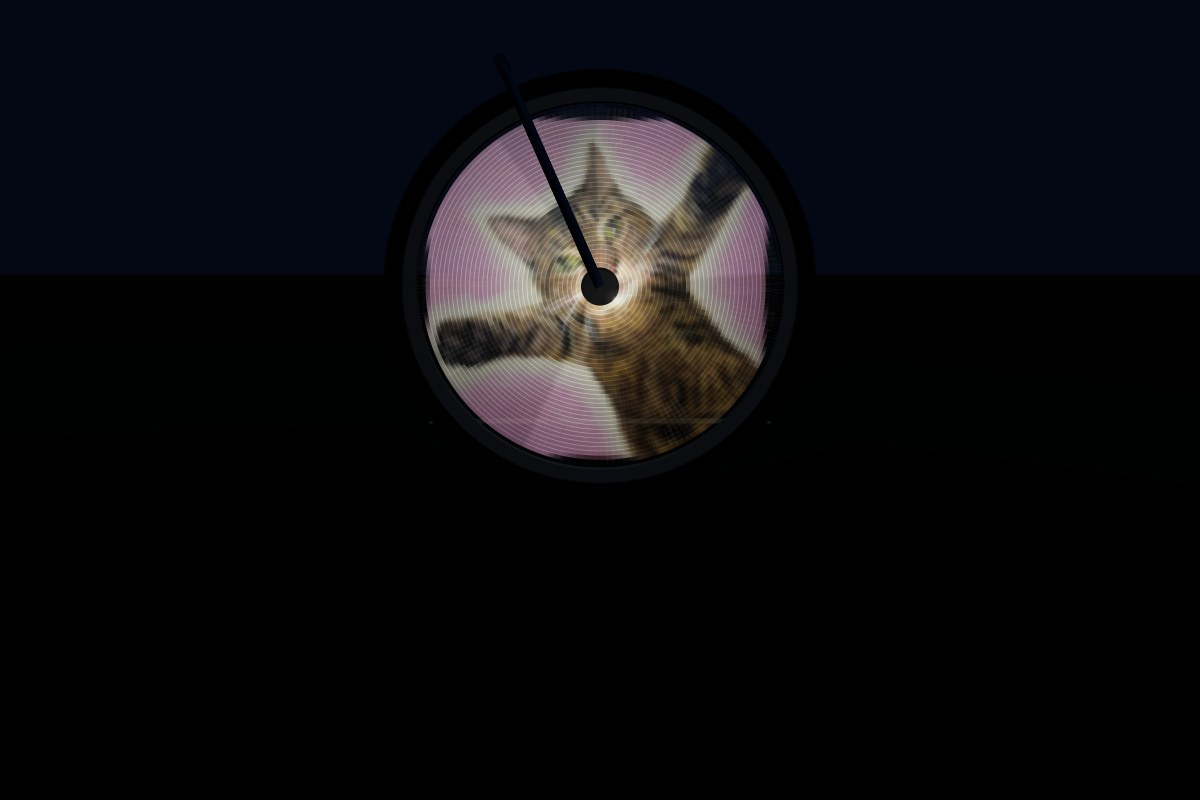
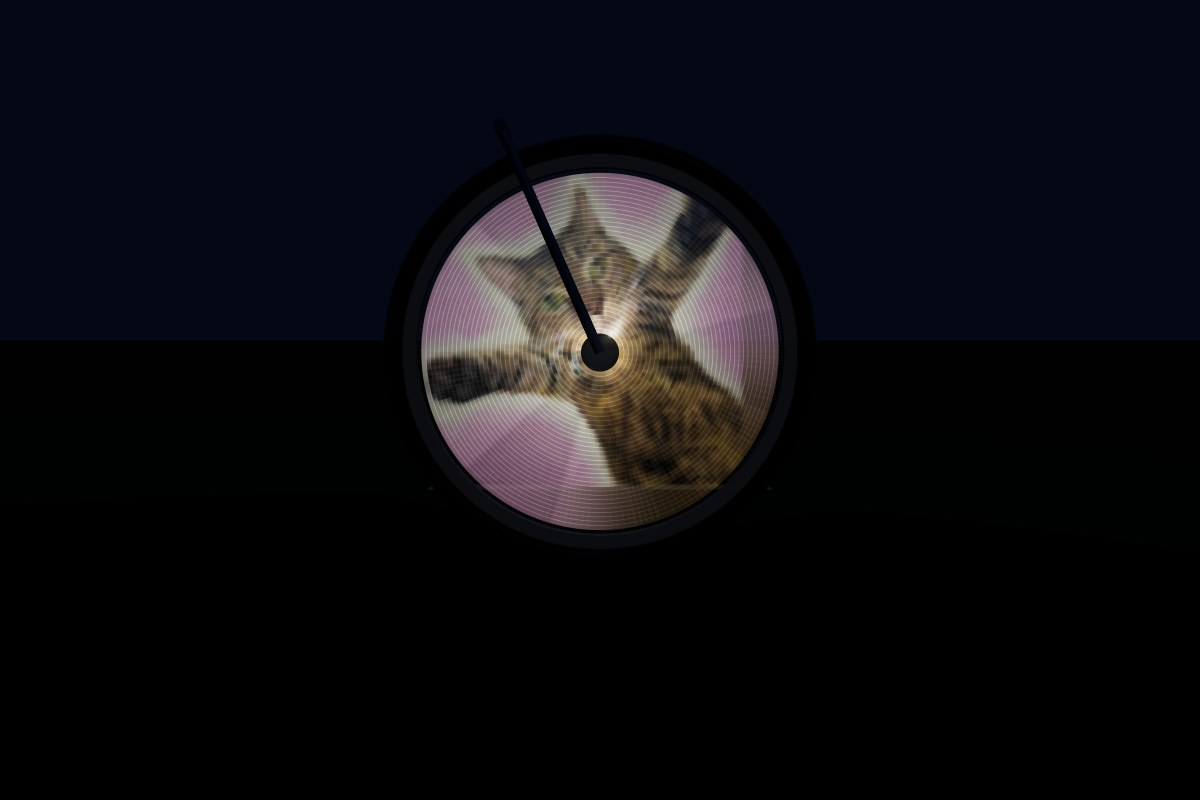
Pictures: zoom, move and blurred mirror edges; reframe Soup
- Picture details gain Zoom, Move right and Move up, and Edges: where a
  picture doesn't reach, a heavily blurred mirror tiling of it (default)
  or dark. The blur is done in script, so it works in Safari too.
- Soup is zoomed out with the hub on her chest, face and both paws in
  view; the painting is cropped to just the canvas.
- README: settings and the Soup example.

Changed region(s): [[0.3392, 0.125, 0.6475, 0.6875]]

diff --git a/src/image/load.ts b/src/image/load.ts
@@ -481,15 +481,65 @@ export function blankAnimation(): Animation {
   return { frames: [c], fps: 1 };
 }
 
-/** Square, centred copy for polar mapping: cropped to fill the square, or letterboxed whole. */
-export function squareImageData(src: ImageSource, crop = false): ImageData {
+/**
+ * Square copy for polar mapping: cropped to fill the square, or letterboxed whole, then scaled
+ * by zoom about the centre and moved right by x and up by y (shares of the square's size).
+ * Where the picture doesn't reach, edges fills in: dark, or a heavily blurred mirror tiling of
+ * the picture (flipped copies all around, so its edges continue softly into the rest of the wheel).
+ */
+export function squareImageData(src: ImageSource, crop = false, zoom = 1, x = 0, y = 0,
+  edges: 'dark' | 'mirror' = 'dark'): ImageData {
   const { g } = canvas();
   g.fillStyle = '#000';
   g.fillRect(0, 0, SIZE, SIZE);
-  const s = (crop ? Math.max : Math.min)(SIZE / src.width, SIZE / src.height);
+  const s = (crop ? Math.max : Math.min)(SIZE / src.width, SIZE / src.height) * zoom;
   const w = src.width * s, h = src.height * s;
-  g.drawImage(src, (SIZE - w) / 2, (SIZE - h) / 2, w, h);
+  const left = (SIZE - w) / 2 + x * SIZE, top = (SIZE - h) / 2 - y * SIZE;
+  if (edges === 'mirror') {
+    // Tile at a small size, blur that heavily, then enlarge it smoothly. The blur is done here
+    // rather than with the canvas blur filter, which Safari lacks.
+    const k = 1 / 8, tiny = canvas(SIZE * k, SIZE * k), mid = canvas(SIZE / 2, SIZE / 2);
+    for (let i = Math.floor(-left / w); left + i * w < SIZE; i++) {
+      for (let j = Math.floor(-top / h); top + j * h < SIZE; j++) {
+        const fx = i % 2 !== 0, fy = j % 2 !== 0; // flipped in turn, so each edge meets its own mirror image
+        tiny.g.save();
+        tiny.g.translate((left + i * w + (fx ? w : 0)) * k, (top + j * h + (fy ? h : 0)) * k);
+        tiny.g.scale(fx ? -1 : 1, fy ? -1 : 1);
+        tiny.g.drawImage(src, 0, 0, w * k, h * k);
+        tiny.g.restore();
+      }
+    }
+    const px = tiny.g.getImageData(0, 0, tiny.c.width, tiny.c.height);
+    blur(px, Math.round(tiny.c.width / 10));
+    tiny.g.putImageData(px, 0, 0);
+    for (const t of [mid.g, g]) { t.imageSmoothingEnabled = true; t.imageSmoothingQuality = 'high'; }
+    mid.g.drawImage(tiny.c, 0, 0, SIZE / 2, SIZE / 2);
+    g.drawImage(mid.c, 0, 0, SIZE, SIZE);
+  }
+  g.drawImage(src, left, top, w, h);
   return g.getImageData(0, 0, SIZE, SIZE);
+}
+
+/** Blur pixels in place: three passes of a box blur `radius` wide each way (close to a Gaussian). */
+function blur(img: ImageData, radius: number) {
+  const { data, width, height } = img, line = new Float32Array(Math.max(width, height) * 4);
+  const pass = (n: number, count: number, at: (line: number, i: number) => number) => {
+    for (let l = 0; l < count; l++) {
+      for (let i = 0; i < n; i++) for (let ch = 0; ch < 4; ch++) line[i * 4 + ch] = data[at(l, i) + ch];
+      for (let i = 0; i < n; i++) {
+        const lo = Math.max(0, i - radius), hi = Math.min(n - 1, i + radius);
+        for (let ch = 0; ch < 4; ch++) {
+          let sum = 0;
+          for (let j = lo; j <= hi; j++) sum += line[j * 4 + ch];
+          data[at(l, i) + ch] = sum / (hi - lo + 1);
+        }
+      }
+    }
+  };
+  for (let p = 0; p < 3; p++) {
+    pass(width, height, (y, x) => (y * width + x) * 4);
+    pass(height, width, (x, y) => (y * width + x) * 4);
+  }
 }
 
 /** Native-resolution copy (capped) for the Adafruit columns-as-angles mapping. */

diff --git a/src/params.ts b/src/params.ts
@@ -207,6 +207,10 @@ export function defaultParams() {
     mapping: 'polar' as 'polar' | 'columns',
     fit: 'disc' as 'disc' | 'annulus',
     pictureFill: 'crop' as 'crop' | 'whole', // a non-square picture: crop it to fill the wheel, or letterbox the whole of it
+    pictureZoom: 1,           // scales a picture about the wheel's centre (1 = as filled)
+    pictureX: 0,              // moves it right, as a share of the wheel's width (negative = left)
+    pictureY: 0,              // moves it up, as a share of the wheel's height (negative = down)
+    pictureEdges: 'mirror' as 'dark' | 'mirror', // where a picture doesn't reach: dark, or a blurred mirror tiling of it
     imageRotationDeg: 0,
     gamma: 2.2,
     colorBits: 8,
@@ -245,7 +249,7 @@ export type Params = ReturnType<typeof defaultParams>;
 // simulation: riding, camera, exposure and rendering.
 export const PRESET_KEYS = [
   'pattern', 'useMedia', 'text', 'displayMode', 'tileGapM', 'bannerLower', 'bannerUpper', 'spinSeconds', 'mapping', 'fit', 'pictureFill',
-  'imageRotationDeg', 'globalBrightness',
+  'pictureZoom', 'pictureX', 'pictureY', 'pictureEdges', 'imageRotationDeg', 'globalBrightness',
   'waterFill', 'fluid', 'waterFlip', 'waterViscosity', 'waterSeparation', 'rimFriction', 'waterGain',
   'smileyBounce', 'smileyGrip', 'smileyGain',
   'dryerRibbons', 'dryerDrumTurn', 'dryerGrip', 'dryerGain', 'dryerShuffle',
@@ -277,7 +281,7 @@ export const PATTERN_LABELS: Record<PatternName, string> = {
 // Allowed values for the string settings that pick from a list.
 const CHOICES: Partial<Record<keyof Params, readonly string[]>> = {
   pattern: PATTERNS, bannerLower: BANNER_LOWER, bannerUpper: ['road', 'bike'], fluid: Object.keys(FLUIDS), displayMode: ['wheel', 'banner'], mapping: ['polar', 'columns'],
-  fit: ['disc', 'annulus'], pictureFill: ['crop', 'whole'], frameAdvance: ['timed', 'revolution'], wheelPreset: Object.keys(WHEELS),
+  fit: ['disc', 'annulus'], pictureFill: ['crop', 'whole'], pictureEdges: ['dark', 'mirror'], frameAdvance: ['timed', 'revolution'], wheelPreset: Object.keys(WHEELS),
   ledPackage: Object.keys(PACKAGES), backData: ['same', 'independent'], chip: Object.keys(CHIPS),
   ledType: Object.keys(LEDS), firmware: Object.keys(FIRMWARE), syncMode: ['hall', 'ideal', 'free'],
   overflow: ['wrap', 'blank'],
@@ -321,7 +325,8 @@ export function speedMps(p: Params): number {
  * to a picture starts them afresh, so a picture always begins the same way, whatever the preset
  * showed before: cropped to fill the wheel and turning with it.
  */
-export const PICTURE_KEYS = ['displayMode', 'tileGapM', 'bannerUpper', 'spinSeconds', 'mapping', 'fit', 'pictureFill', 'imageRotationDeg',
+export const PICTURE_KEYS = ['displayMode', 'tileGapM', 'bannerUpper', 'spinSeconds', 'mapping', 'fit', 'pictureFill',
+  'pictureZoom', 'pictureX', 'pictureY', 'pictureEdges', 'imageRotationDeg',
   'frameAdvance', 'playbackRate', 'revsPerFrame'] as const satisfies readonly PresetKey[];
 
 /** Show the preset's image or video instead of its pattern, with the picture settings at their defaults. */

diff --git a/src/main.ts b/src/main.ts
@@ -103,7 +103,7 @@ let imageKey = '';
 let rebuildTimer = 0;
 
 function imageKeyFor(d: Derived) {
-  return [sourceVersion, bannerLowerOf(p) === 'picture', p.mapping, p.fit, p.pictureFill, p.imageRotationDeg, p.gamma, p.colorBits, p.radialCompensation,
+  return [sourceVersion, bannerLowerOf(p) === 'picture', p.mapping, p.fit, p.pictureFill, p.pictureZoom, p.pictureX, p.pictureY, p.pictureEdges, p.useMedia, p.imageRotationDeg, p.gamma, p.colorBits, p.radialCompensation,
     p.columnsPerRev, p.stripCount, d.ledsPerStrip, d.rStart, d.pitch, p.doubleSided, p.backData, p.radialStagger].join('|');
 }
 
@@ -120,7 +120,11 @@ async function rebuildImage(d: Derived) {
   let budgetEnd = performance.now() + 30;
   for (const [i, frame] of source.frames.entries()) {
     const wheelFrame = source.wheelFrames?.[i] ?? frame;
-    const c = polarize(p.mapping === 'polar' ? squareImageData(wheelFrame, p.pictureFill === 'crop') : rawImageData(frame), p, d);
+    // Zoom and move apply to your own pictures; patterns are drawn to fit the wheel already.
+    const square = () => (p.useMedia
+      ? squareImageData(wheelFrame, p.pictureFill === 'crop', p.pictureZoom, p.pictureX, p.pictureY, p.pictureEdges)
+      : squareImageData(wheelFrame, p.pictureFill === 'crop'));
+    const c = polarize(p.mapping === 'polar' ? square() : rawImageData(frame), p, d);
     cols.push(c);
     const bannerFrame = bannerLowerOf(p) === 'picture' ? frame : source.bannerFrames?.[i] ?? bannerTile(frame);
     bans.push(bannerBitmap(rawImageData(bannerFrame), p, d));

diff --git a/src/ui.ts b/src/ui.ts
@@ -173,6 +173,10 @@ export function buildUi(p: Params, hooks: UiHooks): Ui {
   const picture = pg.addFolder('Picture details').close();
   picture.add(p, 'mapping', { 'Picture (polar)': 'polar', 'Adafruit columns': 'columns' }).name('Layout');
   const fillCtl = picture.add(p, 'pictureFill', { 'Crop to fill': 'crop', 'Whole picture': 'whole' }).name('Fill');
+  const zoomCtl = picture.add(p, 'pictureZoom', 0.25, 4, 0.05).name('Zoom');
+  const moveXCtl = picture.add(p, 'pictureX', -1, 1, 0.01).name('Move right');
+  const moveYCtl = picture.add(p, 'pictureY', -1, 1, 0.01).name('Move up');
+  const edgesCtl = picture.add(p, 'pictureEdges', { 'Blurred mirror': 'mirror', 'Dark': 'dark' }).name('Edges');
   picture.add(p, 'fit', { 'Whole disc': 'disc', 'LED ring only': 'annulus' }).name('Fit');
   picture.add(p, 'imageRotationDeg', -180, 180, 1).name('Rotation (°)');
 
@@ -321,7 +325,7 @@ export function buildUi(p: Params, hooks: UiHooks): Ui {
     spinCtl.show(p.displayMode === 'wheel' && !live);
     gapCtl.show(p.displayMode === 'banner' && p.bannerUpper === 'road');
     lowerCtl.show(p.displayMode === 'banner' && !p.useMedia); // a picture always fills the banner's full height
-    fillCtl.show(p.useMedia && p.mapping === 'polar');
+    for (const c of [fillCtl, zoomCtl, moveXCtl, moveYCtl, edgesCtl]) c.show(p.useMedia && p.mapping === 'polar');
     water.show(isWater);
     smiley.show(isSmiley);
     dryer.show(isDryer);

diff --git a/test/presets.test.ts b/test/presets.test.ts
@@ -100,10 +100,12 @@ describe('preset store', () => {
 describe('pictures', () => {
   it('start the same way whatever the preset showed before: cropped to fill the wheel, turning with it', () => {
     const p = { ...defaultParams(), pattern: 'Bouncing ball (animated)' as const, displayMode: 'banner' as const,
-      bannerUpper: 'bike' as const, bannerLower: 'bridge' as const, spinSeconds: 16, fit: 'annulus' as const, pictureFill: 'whole' as const };
+      bannerUpper: 'bike' as const, bannerLower: 'bridge' as const, spinSeconds: 16, fit: 'annulus' as const, pictureFill: 'whole' as const,
+      pictureZoom: 2, pictureX: 0.3, pictureY: -0.2, pictureEdges: 'dark' as const };
     showPicture(p);
     expect(p.useMedia).toBe(true);
-    expect(p).toMatchObject({ displayMode: 'wheel', bannerUpper: 'road', spinSeconds: 0, fit: 'disc', pictureFill: 'crop', mapping: 'polar' });
+    expect(p).toMatchObject({ displayMode: 'wheel', bannerUpper: 'road', spinSeconds: 0, fit: 'disc', pictureFill: 'crop', mapping: 'polar',
+      pictureZoom: 1, pictureX: 0, pictureY: 0, pictureEdges: 'mirror' });
     // Already showing a picture: its settings stay as the rider set them.
     p.displayMode = 'banner'; p.spinSeconds = 8;
     showPicture(p);

diff --git a/README.md b/README.md
@@ -29,7 +29,7 @@ These are all renders from the simulator, starting from the Water preset and the
   </tr>
   <tr>
     <td width="50%"><img src="docs/images/dryer-ride.jpg" alt="Colourful ribbons tumbling up the rear side of the wheel"><br><sub><b>Tumble dryer preset,</b> 12 mph, 1/4 s: the paddles carry the ribbons up the rear side of the drum until they fall back, the nearer ribbons covering the ones behind.</sub></td>
-    <td width="50%"><img src="docs/images/soup-preset.jpg" alt="A painting of a cat cropped to fill the wheel"><br><sub><b>Soup preset,</b> 15 mph, 1/2 s: your own picture (here a painting of a cat, from <code>media/</code>), cropped to fill the wheel and shown as it is.</sub></td>
+    <td width="50%"><img src="docs/images/soup-preset.jpg" alt="A painting of a cat cropped to fill the wheel"><br><sub><b>Soup preset,</b> 15 mph, 1/2 s: your own picture (here a painting of a cat, from <code>media/</code>), zoomed out and moved so the hub sits on her chest, with her face and both paws in view; a heavily blurred mirror of the painting fills the rest of the wheel.</sub></td>
   </tr>
   <tr>
     <td width="50%"><img src="docs/images/shutter-1-30.jpg" alt="Three wedges at a 1/30 s shutter"><br><sub><b>1/30 s photo</b> at 10 mph: each of the 3 strips sweeps only 25°.</sub></td>
@@ -69,7 +69,7 @@ Two views show the same moment and the same animation. The main view follows the
 
 A real wheel has one button that steps through its presets in order while you ride; **Next ▶** does the same here. The default setup has nine: Soup (your own picture: a painting of a cat, until you choose another), Tumble dryer (colourful ribbons tumbling in a drum), Rainbow spiral (which turns slowly), Water, Smiley (a smiley loose inside the wheel that bounces around as you ride), Beating heart, Clock face (an old Roman-numeral dial whose hands spin in opposite directions), Text banner ("Hi!" painted in the air) and Ball on a bridge. A new setup always starts on the first preset. Edit any of them, add a copy with **＋ New preset**, reorder them with ↑ / ↓, or delete them. **Reset** (at the top of Settings) brings back the originals, along with the default hardware and simulator settings. Delete, Reset and Reset hardware ask for a second click to confirm.
 
-To show your own picture, set **Show** to *Image / video* and pick a file with the button under it (an image, animated GIF/WebP/APNG, or video); dropping or pasting a file does the same. The file is stored in the selected preset. A picture is always shown as it is, whatever the preset showed before: it starts cropped to fill the wheel and turning with it, and you can then letterbox the whole picture instead (*Fill*, under *Picture details*), spin it, or make it a banner. As a banner it fills the full height, with no lower-half pattern.
+To show your own picture, set **Show** to *Image / video* and pick a file with the button under it (an image, animated GIF/WebP/APNG, or video); dropping or pasting a file does the same. The file is stored in the selected preset. A picture is always shown as it is, whatever the preset showed before: it starts cropped to fill the wheel and turning with it, and you can then letterbox the whole picture instead (*Fill*, under *Picture details*), zoom and move it (so a face stays clear of the hub; where it no longer reaches, a blurred mirror of it fills in), spin it, or make it a banner. As a banner it fills the full height, with no lower-half pattern.
 
 ### Setups
 
@@ -183,7 +183,7 @@ Position comes from hall-sensor dead reckoning: whole turns at each magnet pass,
 
 | Where | Highlights |
 |---|---|
-| Presets | Show: test patterns (some animated) or your own image, animated GIF/WebP/APNG, or video. Text, wheel-locked or banner mode, spin (the firmware turns a wheel-locked picture once every so many seconds, fractions allowed, by shifting the columns it sends, so it needs no extra frames), banner gap, whether a banner picture is pinned to the road or rides with the bike, the banner's lower-half pattern (arches, rainbow arches, scallops, beads, truss bridge or a full-height picture; your own pictures always fill the full height), brightness. *Water:* fluid type (water, splashy, thick), fill, rim drag, slosh, and under Details the FLIP ratio, viscosity and particle spacing. *Bouncing smiley:* bounce, wall grip, push. *Tumble dryer:* ribbons, drum turn, drum grip, push, layer shuffle. *Animation:* playback speed, timed or every-N-turns frame advance. *Picture details:* polar (picture) or Adafruit columns-as-angles layout, fill (crop to fill the wheel, or the whole picture letterboxed), fit, rotation. Presets hold only the look; hardware and simulator settings don't change when you switch presets |
+| Presets | Show: test patterns (some animated) or your own image, animated GIF/WebP/APNG, or video. Text, wheel-locked or banner mode, spin (the firmware turns a wheel-locked picture once every so many seconds, fractions allowed, by shifting the columns it sends, so it needs no extra frames), banner gap, whether a banner picture is pinned to the road or rides with the bike, the banner's lower-half pattern (arches, rainbow arches, scallops, beads, truss bridge or a full-height picture; your own pictures always fill the full height), brightness. *Water:* fluid type (water, splashy, thick), fill, rim drag, slosh, and under Details the FLIP ratio, viscosity and particle spacing. *Bouncing smiley:* bounce, wall grip, push. *Tumble dryer:* ribbons, drum turn, drum grip, push, layer shuffle. *Animation:* playback speed, timed or every-N-turns frame advance. *Picture details:* polar (picture) or Adafruit columns-as-angles layout, fill (crop to fill the wheel, or the whole picture letterboxed), zoom and move (to keep a face out of the dark hub), edges (where the picture doesn't reach: a heavily blurred mirror of it, or dark), fit, rotation. Presets hold only the look; hardware and simulator settings don't change when you switch presets |
 | Hardware | Setup name. *Wheel:* size presets (700c default, 29", 27.5", 26", 24", 20", 16", 12"), with rim, tire, depth and spokes under Details. *LEDs:* type (APA102, SK9822, HD107S, WS2812B, SK6812), strip count, LED/m, both sides, with package, diffuser, start radius, length, back-strip data (own data by default, so images read correctly from both sides; *shared* mirrors the non-drive side like the Adafruit wiring), stagger, gamma, bit depth and inner-LED dimming under Details. *Controller:* chip (ATmega328P → Teensy 4.x, RP2350 default), firmware (C/Arduino hall sensor, Adafruit CircuitPython guide behaviour, or ideal encoder-locked), battery, with clock, lanes, overhead, PWM, sync, columns per turn, lines/s floor, hall poll and debounce, the animation import limits (max frames, video sample rate), and the firmware's physics simulation (sim rate and acceleration smoothing for the water and the bouncing smiley, plus the water's grid and pressure iterations) under the details folders |
 | Simulator | *Camera:* drive or non-drive side, human eye or camera shutter for the main view, roadside strip above, below or hidden, strip exposure (the same as the main view, or its own shutter, 1/8 s by default, like a phone camera at night), with eye persistence, auto exposure and EV under Details. *Ride:* mph or km/h, pedal surge (from estimated rider power), with cadence, acceleration and braking under Details. *Render:* daylight, glow, wheel and column-buffer display, time scale, pause |
 
